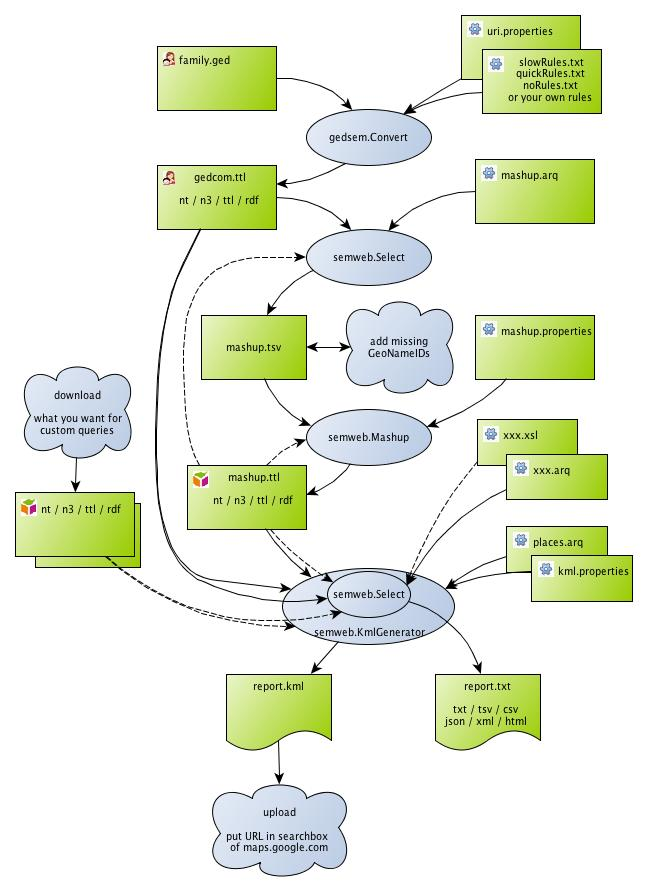
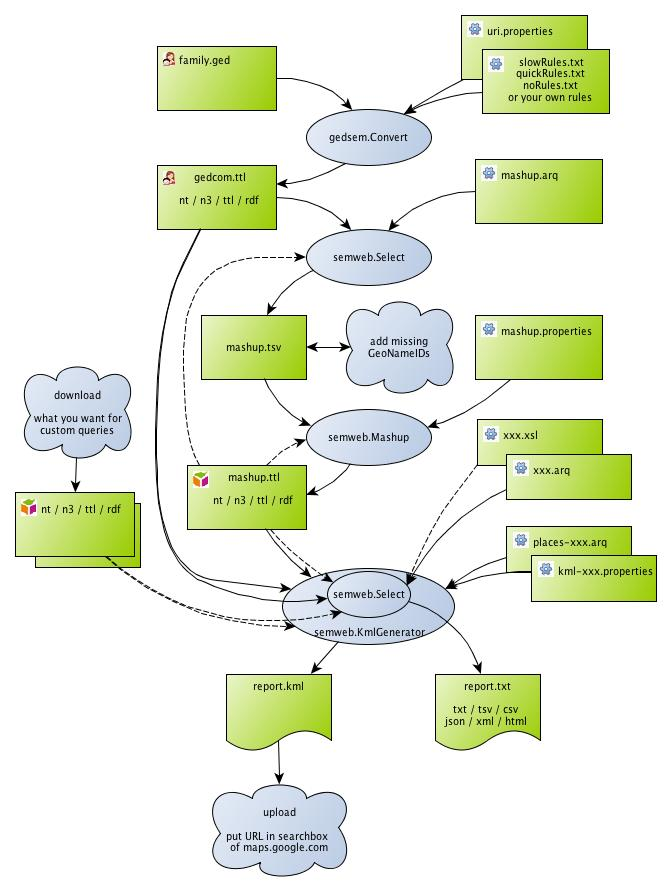
split KML report into two variants, fixed bugs

diff --git a/src/main/java/gedcom2sem/semweb/KmlGenerator.java b/src/main/java/gedcom2sem/semweb/KmlGenerator.java
@@ -169,7 +169,7 @@ public class KmlGenerator
             final String snippetValue = format("migration.folder.item.text", all.get(brancheId).formatArgs);
             placeMark.withDescription(format("migration.popup.html", description.toString()));
             placeMark.withSnippet(new Snippet().withValue(snippetValue));
-            placeMark.withStyleUrl("#" + brancheId.substring(1, 5));
+            placeMark.withStyleUrl("#" + (brancheId+"0000").substring(1, 5));
 
             final LineString lineString = placeMark.createAndSetLineString();
             for (int l = 2; l <= brancheId.length(); l++)
@@ -196,16 +196,19 @@ public class KmlGenerator
     private void buildProbandParentsMarker(final Folder folder) throws MissingResourceException
     {
         final Placemark placemark = folder.createAndAddPlacemark();
-        final float latitude = all.get("10").latitude;
-        final float longitude = all.get("10").longitude;
+        KmlQueryRow father = all.get("10");
+        KmlQueryRow mother = all.get("11");
+        KmlQueryRow proband = all.get("1");
+        if (father == null || mother == null || proband == null||father.longitude==null|| father.latitude==null)
+            return;
         final StringBuffer description = new StringBuffer();
-        description.append(format("proband.father.html", all.get("10").formatArgs));
-        description.append(format("proband.mother.html", all.get("11").formatArgs));
-        placemark.createAndSetPoint().addToCoordinates(longitude, latitude);
-        placemark.withName(format("proband.marker.name", all.get("1").formatArgs));
+        description.append(format("proband.father.html", father.formatArgs));
+        description.append(format("proband.mother.html", mother.formatArgs));
+        placemark.createAndSetPoint().addToCoordinates(father.longitude, father.latitude);
+        placemark.withName(format("proband.marker.name", proband.formatArgs));
         placemark.withDescription(format("proband.popup.html", description.toString()));
-        placemark.withSnippet(new Snippet().withValue(format("proband.marker.text", all.get("1").formatArgs)));
-        folder.withName(format("proband.folder.name", all.get("1").formatArgs));
+        placemark.withSnippet(new Snippet().withValue(format("proband.marker.text", proband.formatArgs)));
+        folder.withName(format("proband.folder.name", proband.formatArgs));
     }
 
     private void addLineStyles(final Document document)

diff --git a/src/main/java/gedcom2sem/semweb/Select.java b/src/main/java/gedcom2sem/semweb/Select.java
@@ -57,15 +57,20 @@ public class Select
         for (final String fileName : fileNames)
         {
             final File file = new File(fileName);
-            final String language = FileUtil.guessLanguage(file);
-            if (language != null)
+            try
+            {
+                final String language = FileUtil.guessLanguage(file);
                 model.read(new FileInputStream(file), (String) null, language);
-            else if (fileName.toLowerCase().endsWith(".xsl"))
-                xsl = file;
-            else if (fileName.toLowerCase().endsWith(".arq"))
-                queryStr = FileUtil.read(file);
-            else
-                outputFile = file;
+            }
+            catch (IllegalArgumentException e)
+            {
+                if (fileName.toLowerCase().endsWith(".xsl"))
+                    xsl = file;
+                else if (fileName.toLowerCase().endsWith(".arq"))
+                    queryStr = FileUtil.read(file);
+                else
+                    outputFile = file;
+            }
         }
         if (model.size() == 0)
             throw new IllegalArgumentException("no or empty data files (.nt, .n3, .ttl, .rdf)");

diff --git a/src/main/java/gedcom2sem/semweb/Mashup.java b/src/main/java/gedcom2sem/semweb/Mashup.java
@@ -166,8 +166,8 @@ public class Mashup
             }
             else
             {
-                FileUtil.guessLanguage(outputFile);
                 outputFile = new File(fileName);
+                FileUtil.guessLanguage(outputFile);
             }
         }
         if (outputFile == null)
